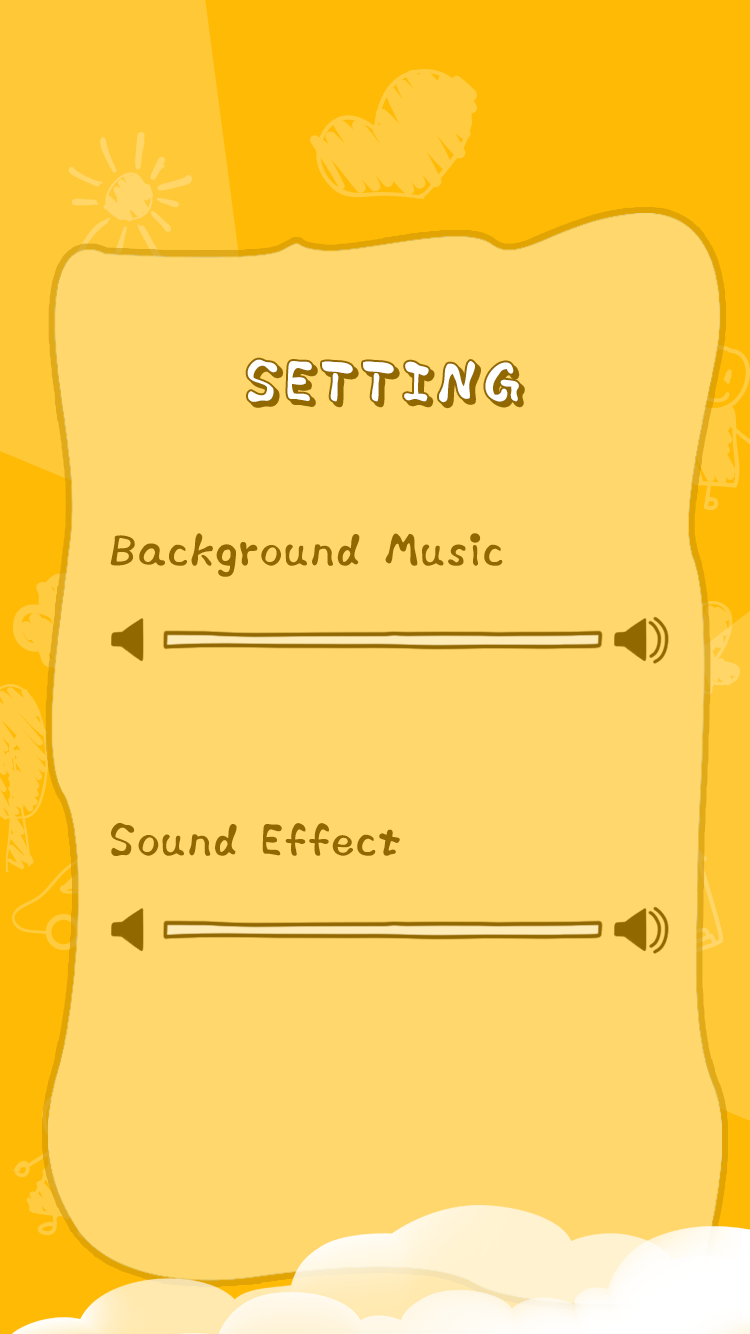
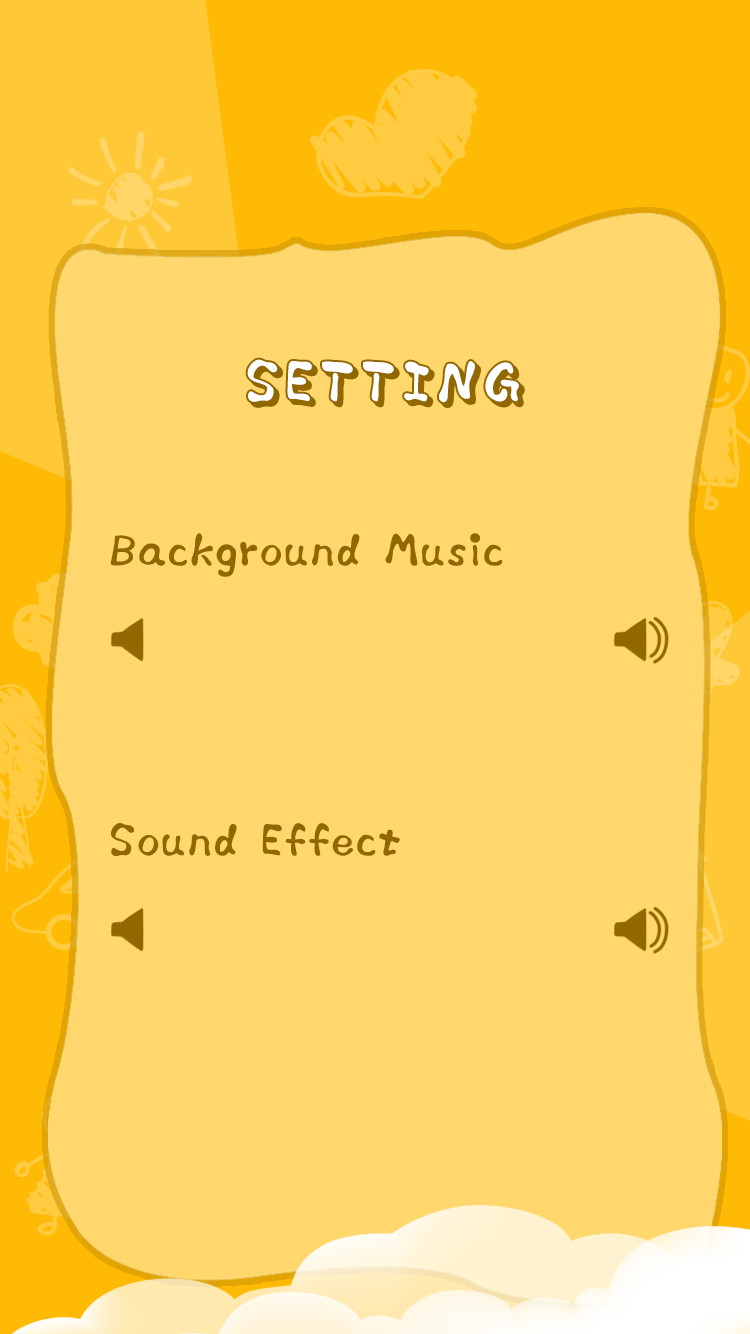
Quick Updated
Added some UI and help Raniya added Sound Manager, and some music

Changed region(s): [[0.2147, 0.6762, 0.7973, 0.7069], [0.2147, 0.461, 0.7973, 0.4918]]

diff --git a/BaileyDemo/core/src/com/mygdx/game/SettingMenu.java b/BaileyDemo/core/src/com/mygdx/game/SettingMenu.java
@@ -6,14 +6,18 @@ import com.badlogic.gdx.InputAdapter;
 import com.badlogic.gdx.ScreenAdapter;
 import com.badlogic.gdx.graphics.GL20;
 import com.badlogic.gdx.graphics.g2d.BitmapFont;
+import com.badlogic.gdx.graphics.g2d.TextureAtlas;
+import com.badlogic.gdx.scenes.scene2d.Actor;
 import com.badlogic.gdx.scenes.scene2d.InputEvent;
 import com.badlogic.gdx.scenes.scene2d.InputListener;
 import com.badlogic.gdx.scenes.scene2d.Stage;
 import com.badlogic.gdx.scenes.scene2d.ui.ImageButton;
 import com.badlogic.gdx.scenes.scene2d.ui.Skin;
+import com.badlogic.gdx.scenes.scene2d.ui.Slider;
 import com.badlogic.gdx.scenes.scene2d.ui.TextArea;
 import com.badlogic.gdx.scenes.scene2d.ui.TextButton;
 import com.badlogic.gdx.scenes.scene2d.ui.TextField;
+import com.badlogic.gdx.scenes.scene2d.utils.ChangeListener;
 import com.badlogic.gdx.scenes.scene2d.utils.ClickListener;
 import com.badlogic.gdx.utils.viewport.ScreenViewport;
 import com.github.czyzby.websocket.WebSocket;
@@ -31,6 +35,8 @@ public class SettingMenu extends ScreenAdapter{
 
     private MultipleScenes game;
     private Stage stage;
+    private Skin skin;
+
 
     private Texture tex;
     private Image image;
@@ -43,6 +49,8 @@ public class SettingMenu extends ScreenAdapter{
     private Texture tex2;
     private ImageButton button;
 
+    private Slider slider;
+
     public SettingMenu(MultipleScenes game) {
         this.game = game;
     }
@@ -51,6 +59,20 @@ public class SettingMenu extends ScreenAdapter{
     public void show(){
 
         stage = new Stage(new ScreenViewport());
+        skin = new Skin(Gdx.files.internal("plain-james/skin/plain-james-ui.json"));
+
+        SoundManager.button.play();
+
+        slider = new Slider(0, 100, 1, false, skin);
+        slider.setSize(30, 100);
+        slider.setPosition(100, 100);
+        slider.addListener(new ChangeListener() {
+            @Override
+            public void changed(ChangeEvent event, Actor actor) {
+
+            }
+        });
+        stage.addActor(slider);
 
         tex = new Texture(Gdx.files.internal("image/setting.png"));
         region = new TextureRegion(tex,0,0,750,1334);

diff --git a/BaileyDemo/core/src/com/mygdx/game/LoginScreen.java b/BaileyDemo/core/src/com/mygdx/game/LoginScreen.java
@@ -85,6 +85,13 @@ public class LoginScreen extends ScreenAdapter {
         image.setSize(360 * (Gdx.graphics.getWidth() / 360),640 * (Gdx.graphics.getHeight() / 640));
         stage.addActor(image);
 
+        //Background music
+        SoundManager.create();
+        SoundManager.background.setLooping(true);
+        SoundManager.background.setVolume(0.1f);
+
+        SoundManager.background.play();
+
         final TextField textField = new TextField("Text field", mySkin);
         textField.setX(Gdx.graphics.getWidth() / 2 - 125);
         textField.setY(Gdx.graphics.getHeight() / 2 - 50);
@@ -234,5 +241,6 @@ public class LoginScreen extends ScreenAdapter {
         font.dispose();
         game.dispose();
         Gdx.app.exit();
+        SoundManager.dispose();
     }
 }

diff --git a/BaileyDemo/core/src/com/mygdx/game/SoundManager.java b/BaileyDemo/core/src/com/mygdx/game/SoundManager.java
@@ -1,0 +1,20 @@
+package com.mygdx.game;
+import com.badlogic.gdx.Gdx;
+import com.badlogic.gdx.audio.Music;
+import com.badlogic.gdx.audio.Sound;
+
+public class SoundManager {
+
+    public static Music background;
+    public static Sound button;
+
+    public static void create() {
+        background = Gdx.audio.newMusic(Gdx.files.internal("Music/backgroundmusic.mp3"));
+        button = Gdx.audio.newSound(Gdx.files.internal("Music/buttonsound.mp3"));
+    }
+
+    public static void dispose(){
+        background.dispose();
+        button.dispose();
+    }
+}

diff --git a/BaileyDemo/core/src/com/mygdx/game/PostGame.java b/BaileyDemo/core/src/com/mygdx/game/PostGame.java
@@ -43,8 +43,8 @@ public class PostGame extends ScreenAdapter {
     @Override
     public void show(){
 
-        font = new BitmapFont(Gdx.files.internal("font/font.fnt"),
-                Gdx.files.internal("font/font.png"), false);
+        font = new BitmapFont(Gdx.files.internal("font/dbfont.fnt"),
+                Gdx.files.internal("font/dbfont.png"), false);
         font.setColor(Color.BLACK);
 
         game.setListener(getListener());

diff --git a/BaileyDemo/core/src/com/mygdx/game/FindingMatch.java b/BaileyDemo/core/src/com/mygdx/game/FindingMatch.java
@@ -82,6 +82,8 @@ public class FindingMatch extends ScreenAdapter {
         Skin mySkin = new Skin(Gdx.files.internal("plain-james/skin/plain-james-ui.json"));
         stage = new Stage(new ScreenViewport());
 
+        SoundManager.button.play();
+
         //Adding Background Img
         tex = new Texture(Gdx.files.internal("image/waiting.png"));
         region = new TextureRegion(tex,0,0,750,1334);

diff --git a/BaileyDemo/core/src/com/mygdx/game/CreateLobby.java b/BaileyDemo/core/src/com/mygdx/game/CreateLobby.java
@@ -44,6 +44,8 @@ public class CreateLobby extends ScreenAdapter {
 
         Gdx.graphics.setWindowedMode(360, 640);
 
+        SoundManager.button.play();
+
         exitLobby = new TextButton("Go Back", mySkin, "toggle");
         exitLobby.setBounds(Gdx.graphics.getWidth() / 2 - 150, Gdx.graphics.getHeight() / 2 - 150, 150, 50);
         exitLobby.getLabel().setFontScale(0.6f, 0.6f);

diff --git a/BaileyDemo/core/src/com/mygdx/game/HomeScreen.java b/BaileyDemo/core/src/com/mygdx/game/HomeScreen.java
@@ -181,6 +181,8 @@ public class HomeScreen extends ScreenAdapter {
 //
 //        stage.addActor(textField);
 
+        SoundManager.button.play();
+
         //Setting Icon
         tex2 = new Texture(Gdx.files.internal("button/SettingButton.png"));
         TextureRegion[][] temp = TextureRegion.split(tex2,85,85);
